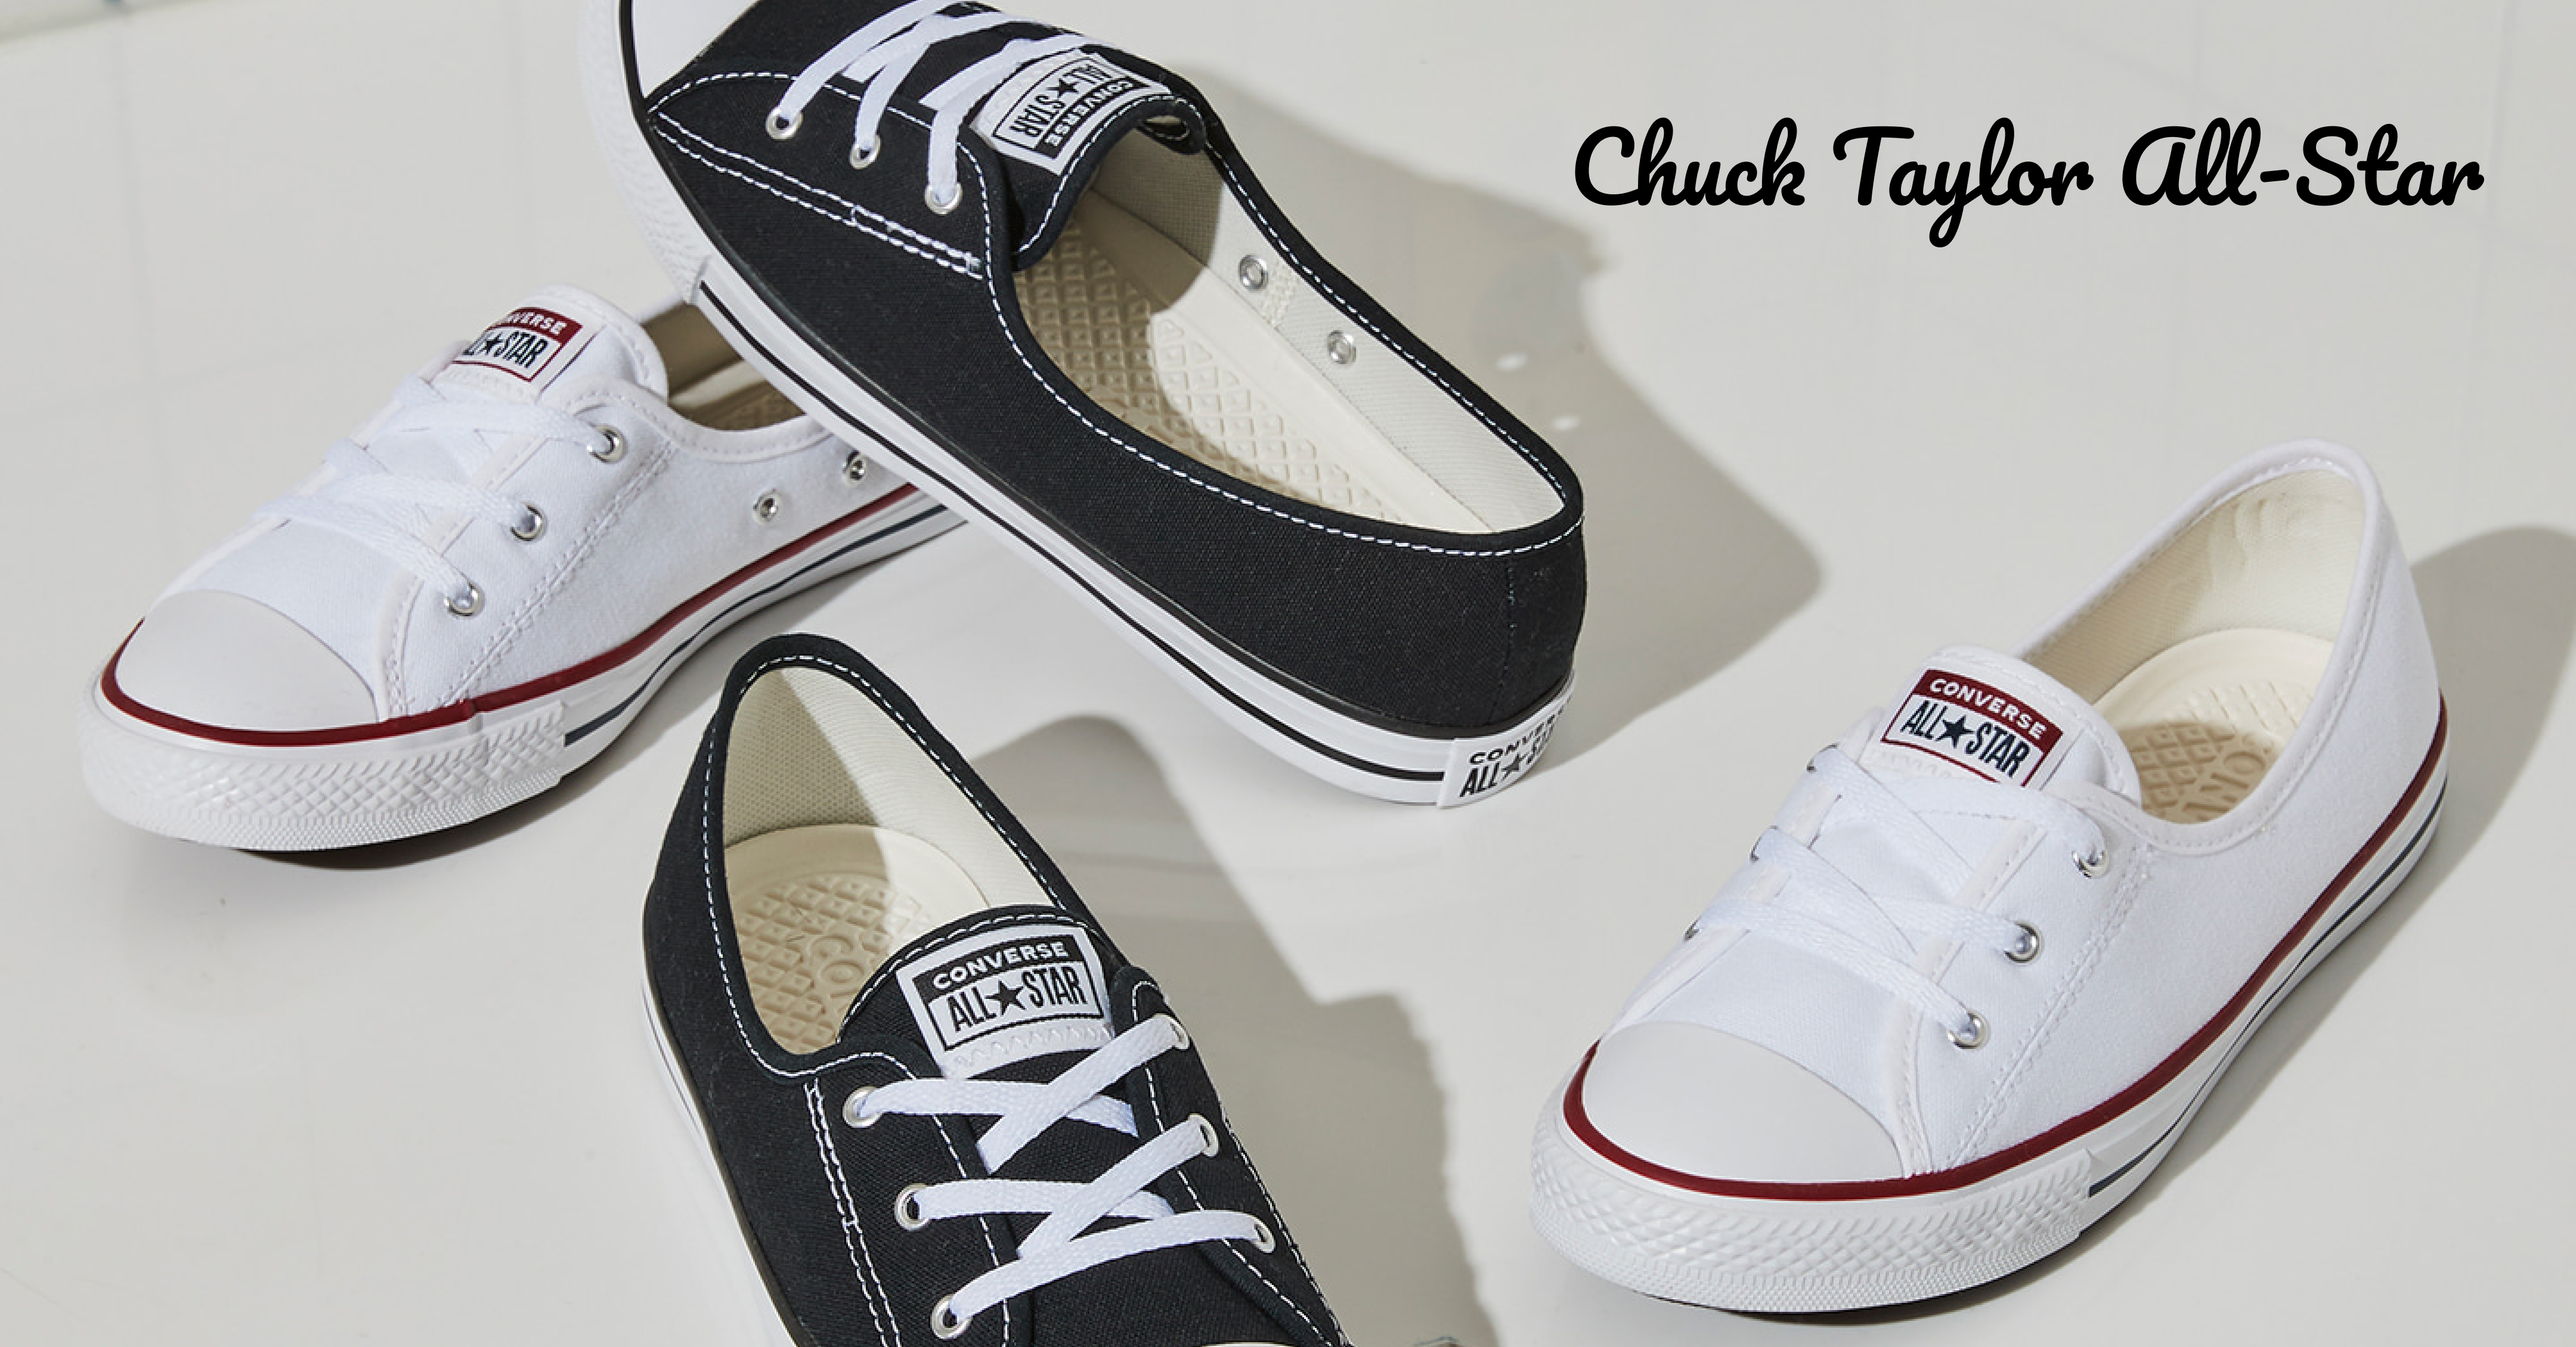
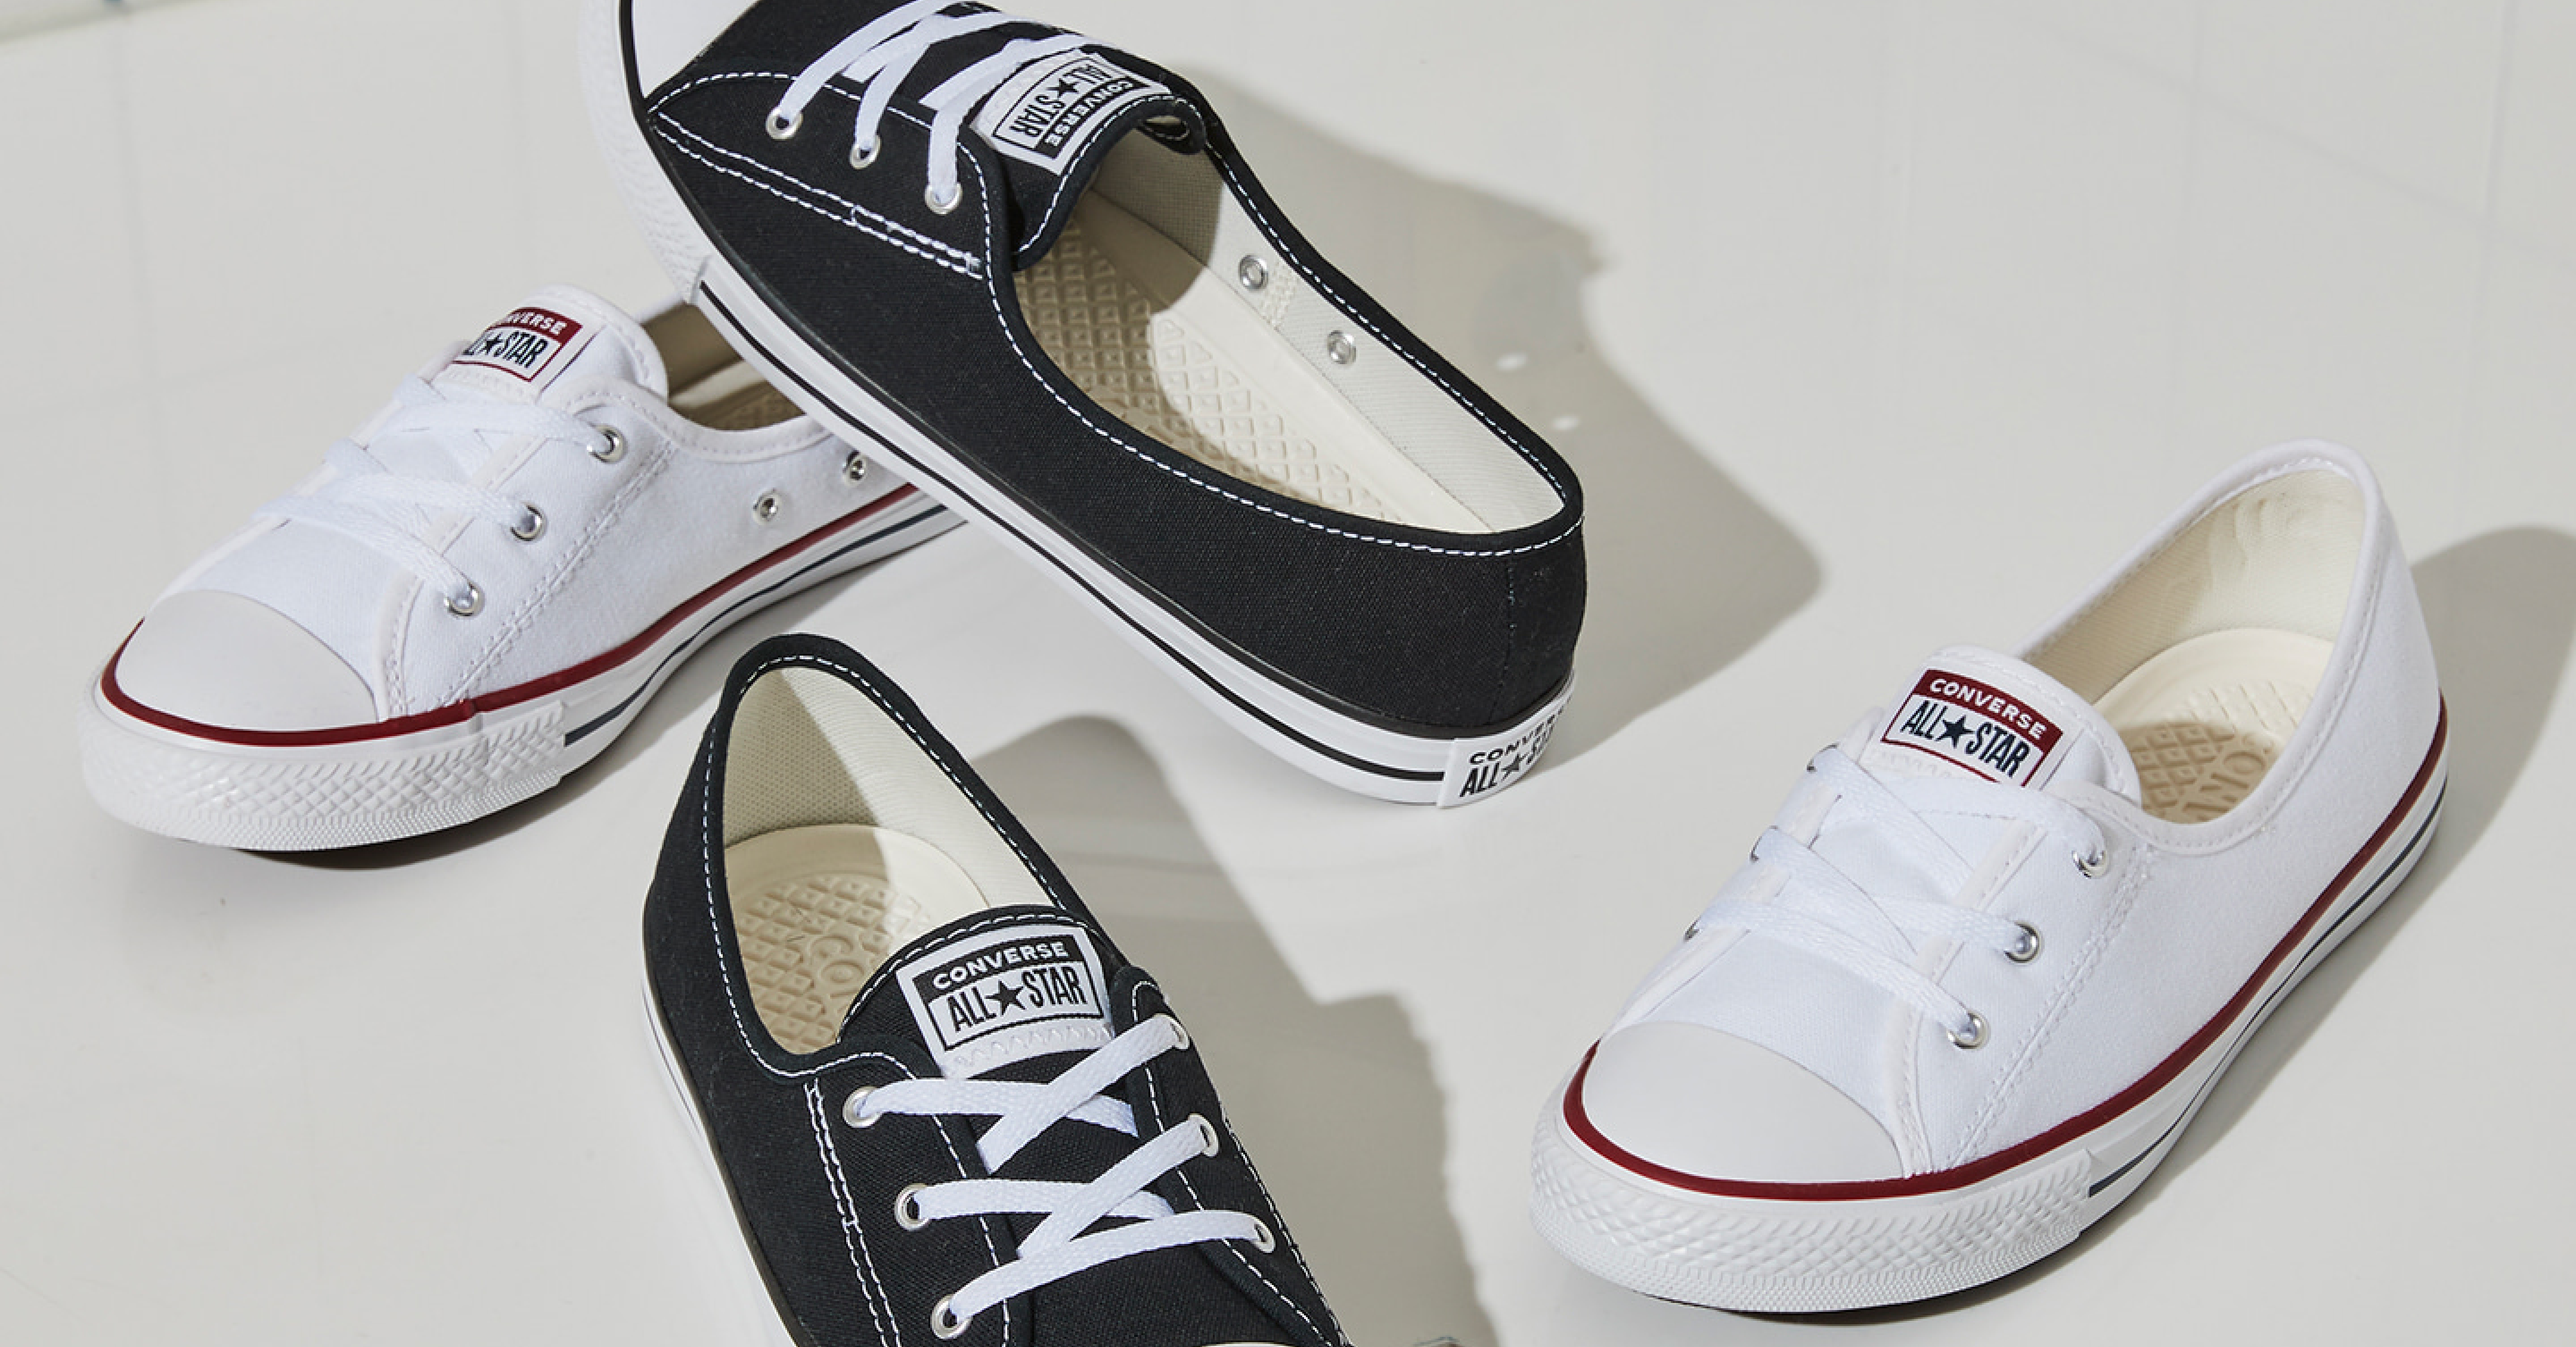
라인업 인터랙션 추가

Changed region(s): [[0.5938, 0.0929, 0.9688, 0.1858]]

diff --git a/style.css b/style.css
@@ -6,7 +6,7 @@
 body {
   width: 1080px;
   height: 1920px;
-  border: 2px dotted red;
+  /* border: 2px dotted red; */
 }
 
 .figma img {
@@ -23,6 +23,7 @@ body {
   display: flex;
   width: 100%;
   height: 92px;
+  border-top: 1px solid rgb(0, 0, 0, 0.1);
 }
 
 .homeimg {
@@ -43,7 +44,7 @@ body {
   font-size: 20px;
   text-decoration: none;
   color: black;
-  border: 1px solid rgb(0, 0, 0, 0.1);
+  /* border: 1px solid rgb(0, 0, 0, 0.1); */
   text-align: center;
   align-items: center;
   justify-content: center;
@@ -85,9 +86,13 @@ body {
 .column-center {
   width: 402px;
   background-color: #322d2d;
+  transition: all 0.3s;
 }
-.banner-container:hover > .column-center {
-  transform: scaleX(1.5);
+.column-center:hover {
+  background-color: #F3F3F5;
+}
+.column-center:hover > .div-11 {
+  color: black;
 }
 
 .banner-img {
@@ -103,6 +108,7 @@ body {
   margin-top: 100px;
 
   color: white;
+  transition: all 0.3s;
 }
 
 .div-12 {
@@ -134,6 +140,20 @@ body {
   width: 100%;
   object-fit: cover;
   object-position: center;
+  transition: all 0.1s;
+}
+
+.lineup-title {
+  position: absolute;
+  width: 450px;
+  right: 20px;
+  top: 40px;
+}
+.lineup-title2 {
+  position: absolute;
+  width: 400px;
+  left: 20px;
+  top: 40px;
 }
 
 .lineup-container {
@@ -145,6 +165,12 @@ body {
   min-height: 565px;
   width: 100%;
   /* padding-top: 57px; */
+}
+.first-container:hover > .lineup-thumbnail {
+  transform: scale(1.1);
+}
+.second-container:hover > .lineup-thumbnail {
+  transform: scale(1.1);
 }
 
 .lineup-exp-frame {
@@ -196,6 +222,9 @@ body {
 }
 
 .detail-button {
+  position: absolute;
+  top: 27px;
+  right: 80px;
   display: flex;
   background-color: #000;
   height: 70px;
@@ -218,12 +247,11 @@ body {
 
   position: relative;
   display: flex;
-  flex-grow: 1;
   color: #fff;
   white-space: nowrap;
   text-align: center;
   width: 100%;
-  font: 600 21px/67% Roboto, sans-serif;
+  font: 600 21px Roboto, sans-serif;
   transition: all 0.2s ease-in-out;
 }
 

diff --git a/main-lineupTab.html b/main-lineupTab.html
@@ -43,8 +43,10 @@
 
 
         <div class="lineup-frame">
-            <div class="lineup-container">
+            <div class="lineup-container first-container">
                 <img src="./images/lineup_Thumbnail.png" class="lineup-thumbnail" />
+                <img src="./images/lineup_Title.png" class="lineup-title" />
+
 
                 <div class="lineup-exp-frame">
                     <div class="div-18">
@@ -68,8 +70,9 @@
         </div>
 
         <div class="lineup-frame">
-            <div class="lineup-container">
+            <div class="lineup-container second-container">
                 <img src="./images/lineup_Thumbnail2.png" class="lineup-thumbnail" />
+                <img src="./images/lineup_Title2.png" class="lineup-title2" />
                 <div class="lineup-exp-frame">
                     <div class="div-18">
                         <div class="column-4">
